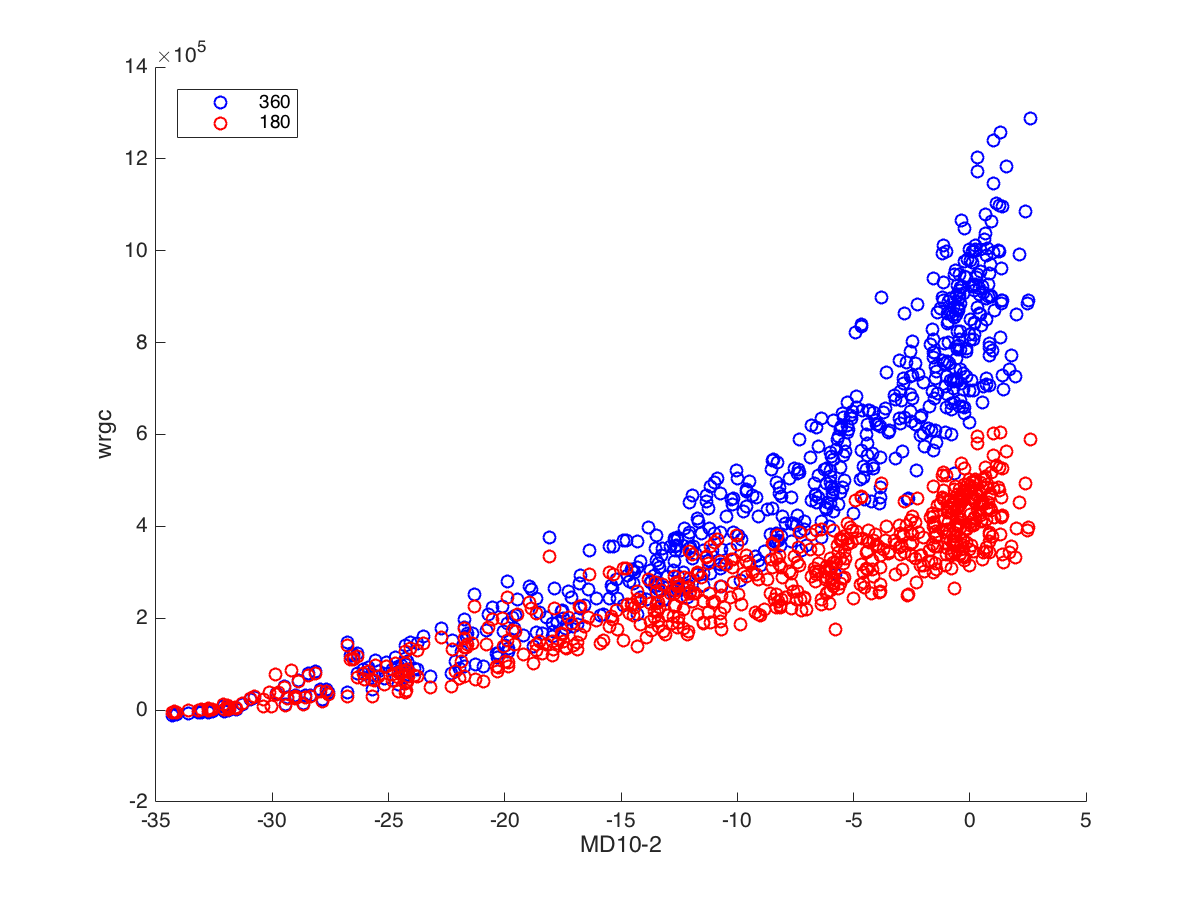
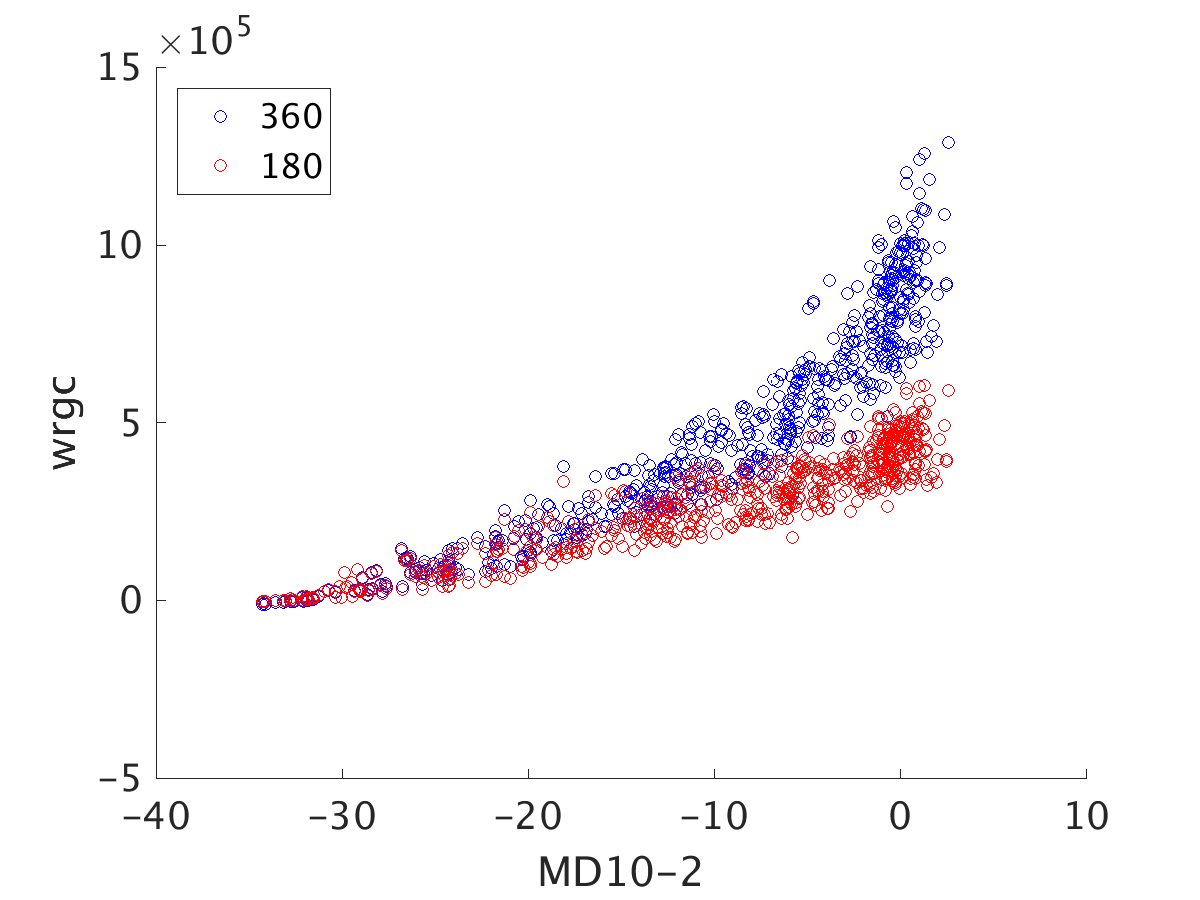
wrgc figures

diff --git a/weightedRGC.m b/weightedRGC.m
@@ -59,6 +59,12 @@ xlabel 'MD10-2'
 ylabel 'wrgc'
 
 legend({'360','180'},'Location','northwest')
+set(gca , 'FontSize', 18)
 
 %% save figure
 saveas(gca, fullfile(pwd,'Figure/wrgc180VSboth.png'))
+
+%% 
+[R, p ] = corrcoef(pt.MD10_2, pt.wrgc360)
+
+[R, p ] = corrcoef(pt.MD10_2, pt.wrgc180)
